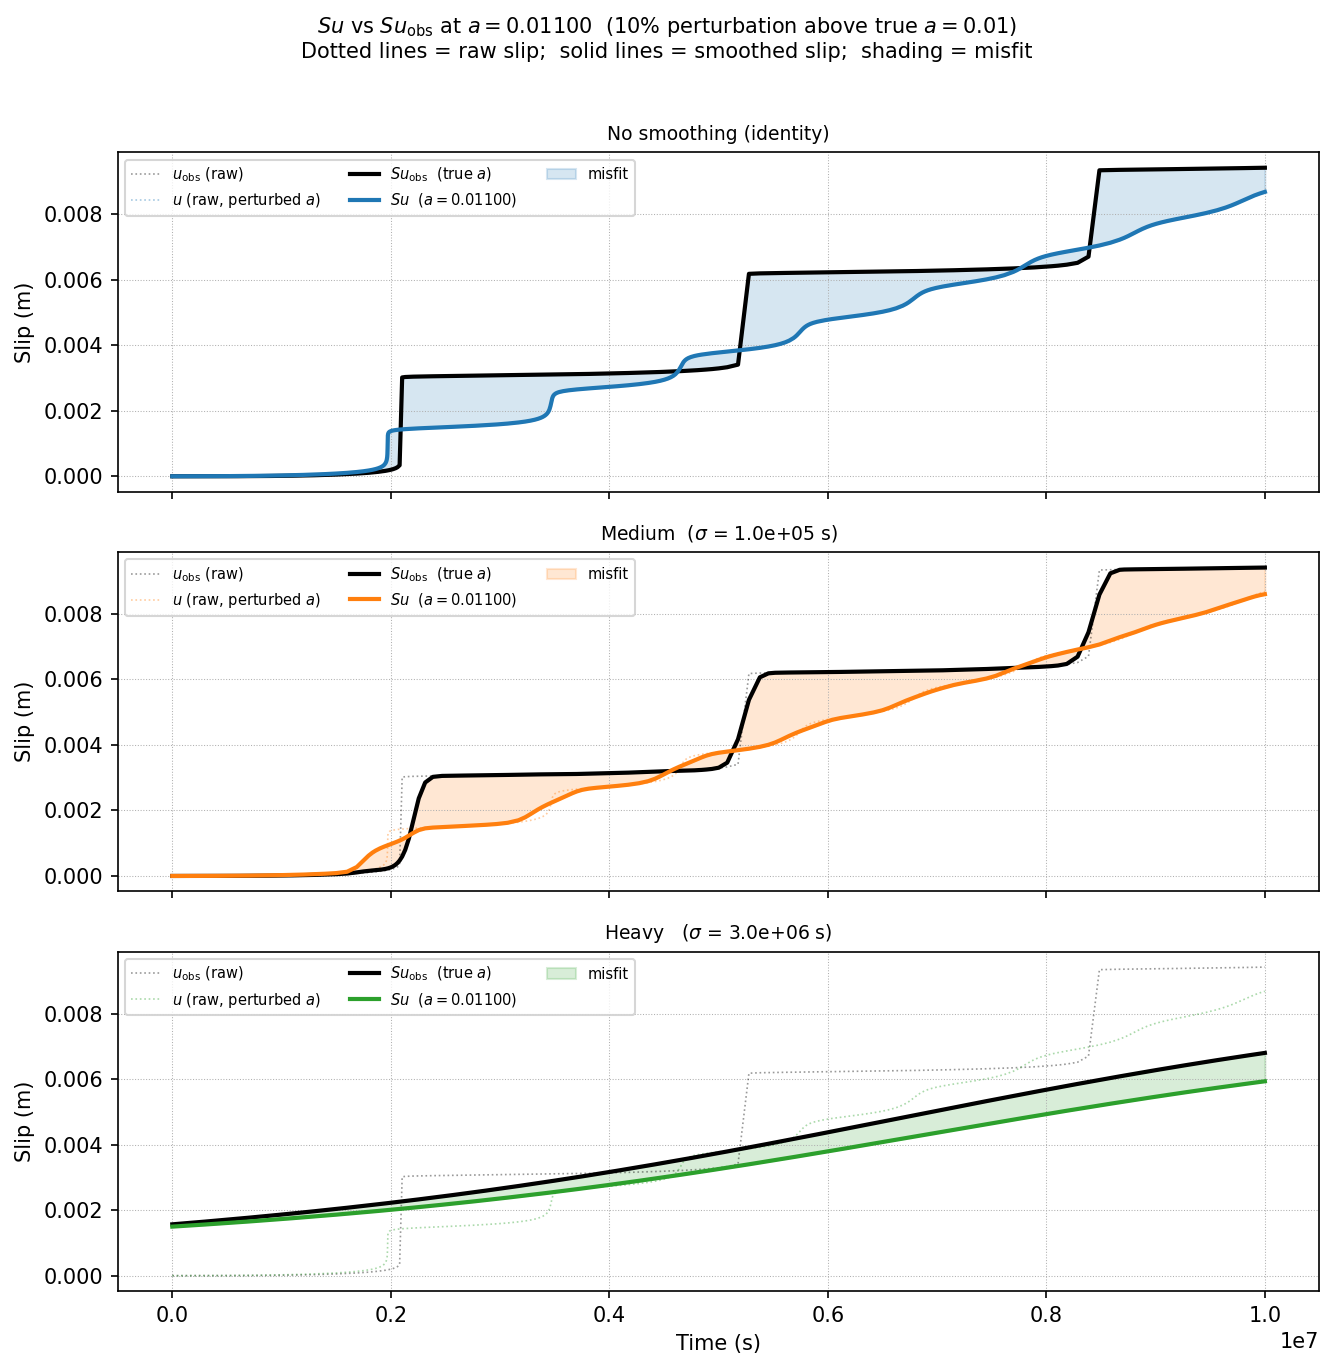
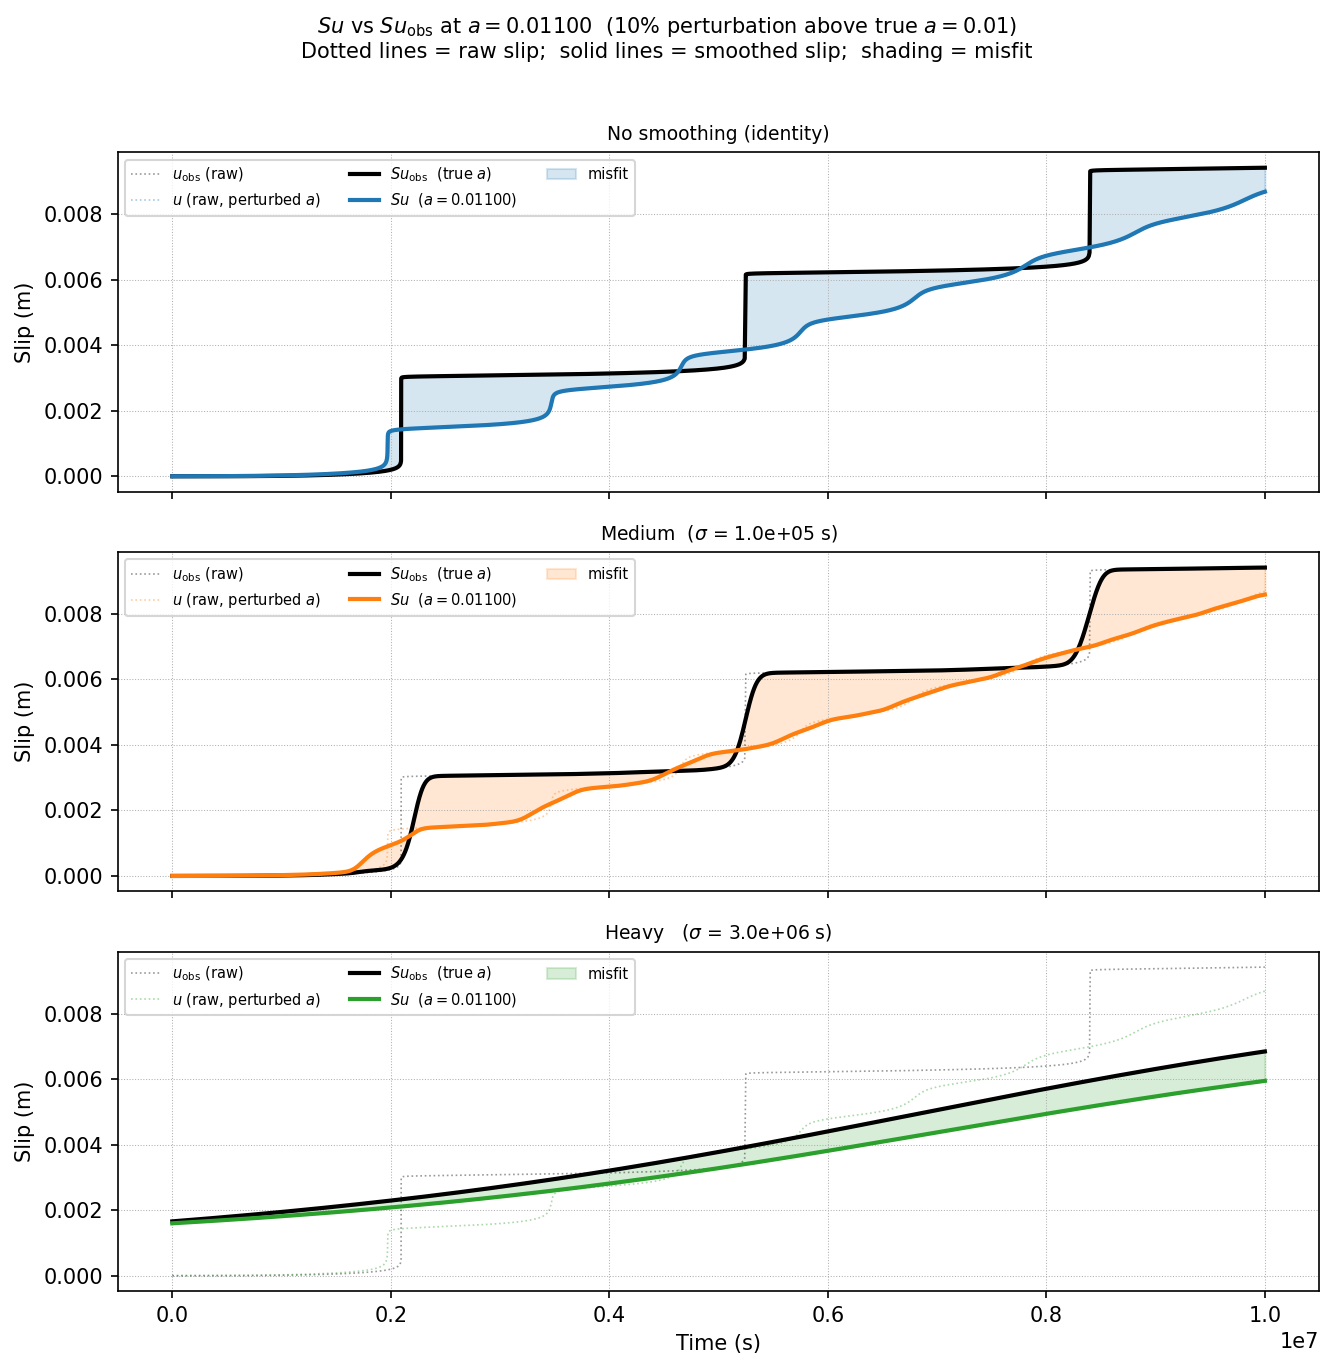
Added arrows to the objective function landscape to better visualize the gradient

diff --git a/adjoint_solve.py b/adjoint_solve.py
@@ -56,10 +56,13 @@ def adjoint_solve(fwd, t_obs, u_obs, M, sigma, fwd_interp=None):
         G_psi_src   = fwd['G_psi']
 
     # --- smoothed misfit: S^T (S u − S u_obs) ---
-    S             = make_smoothing_matrix(fwd['t'], sigma)
-    print(np.shape(fwd['t']), np.shape(t_obs), np.shape(u_obs))
-    u_obs_at_fwd  = np.interp(fwd['t'], t_obs, u_obs)
-    smooth_misfit = S.T @ (S @ u_src - S @ u_obs_at_fwd)   # shape (n,)
+    u_obs_at_fwd = np.interp(fwd['t'], t_obs, u_obs)
+    if sigma is None:
+        # S = I  →  S^T(Su − Su_obs) = u − u_obs  (no matrix needed)
+        smooth_misfit = u_src - u_obs_at_fwd
+    else:
+        S             = make_smoothing_matrix(fwd['t'], sigma)
+        smooth_misfit = S.T @ (S @ u_src - S @ u_obs_at_fwd)   # shape (n,)
 
     # --- reverse arrays so index 0 = t=T, index n-1 = t=0 ---
     rev  = slice(None, None, -1)

diff --git a/adapt_fwd_solve.py b/adapt_fwd_solve.py
@@ -3,7 +3,7 @@ from friction_derivs import *
 from adjoint_solve import *
 
 def forward_solve_adaptive(M, T, u0, psi0, V_init=None,
-                           tol=1e-10, dt0=1.0, dtmax=1e5, safety=0.5):
+                           tol=1e-8, dt0=1.0, dtmax=1e5, safety=0.8):
     """
     Adaptive-step forward solve using a 3-stage embedded RK method
     (2nd/3rd-order error-control pair, matching the MATLAB reference).

diff --git a/compute_obj.py b/compute_obj.py
@@ -1,5 +1,6 @@
 from adjoint_solve import *
 from adapt_fwd_solve import *
+from friction_derivs import *
 
 def compute_J(fwd, t_obs, u_obs, sigma):
     """J = 0.5 * int_0^T (Su - Su_obs)^2 dt  (trapezoidal, Gaussian-smoothed misfit)."""